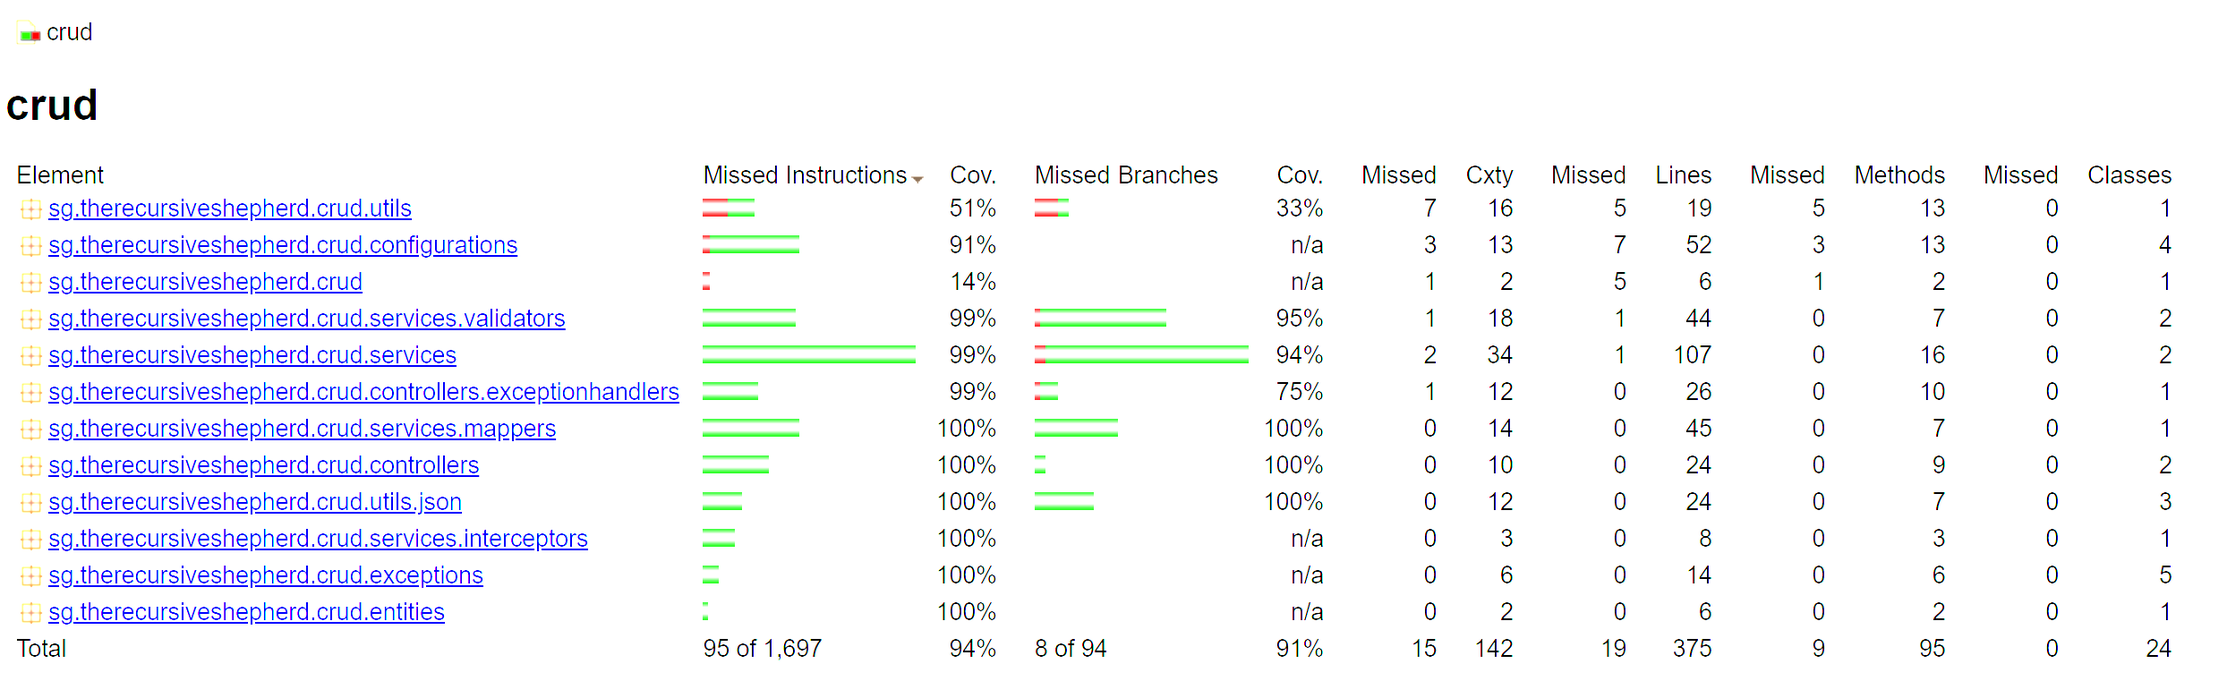
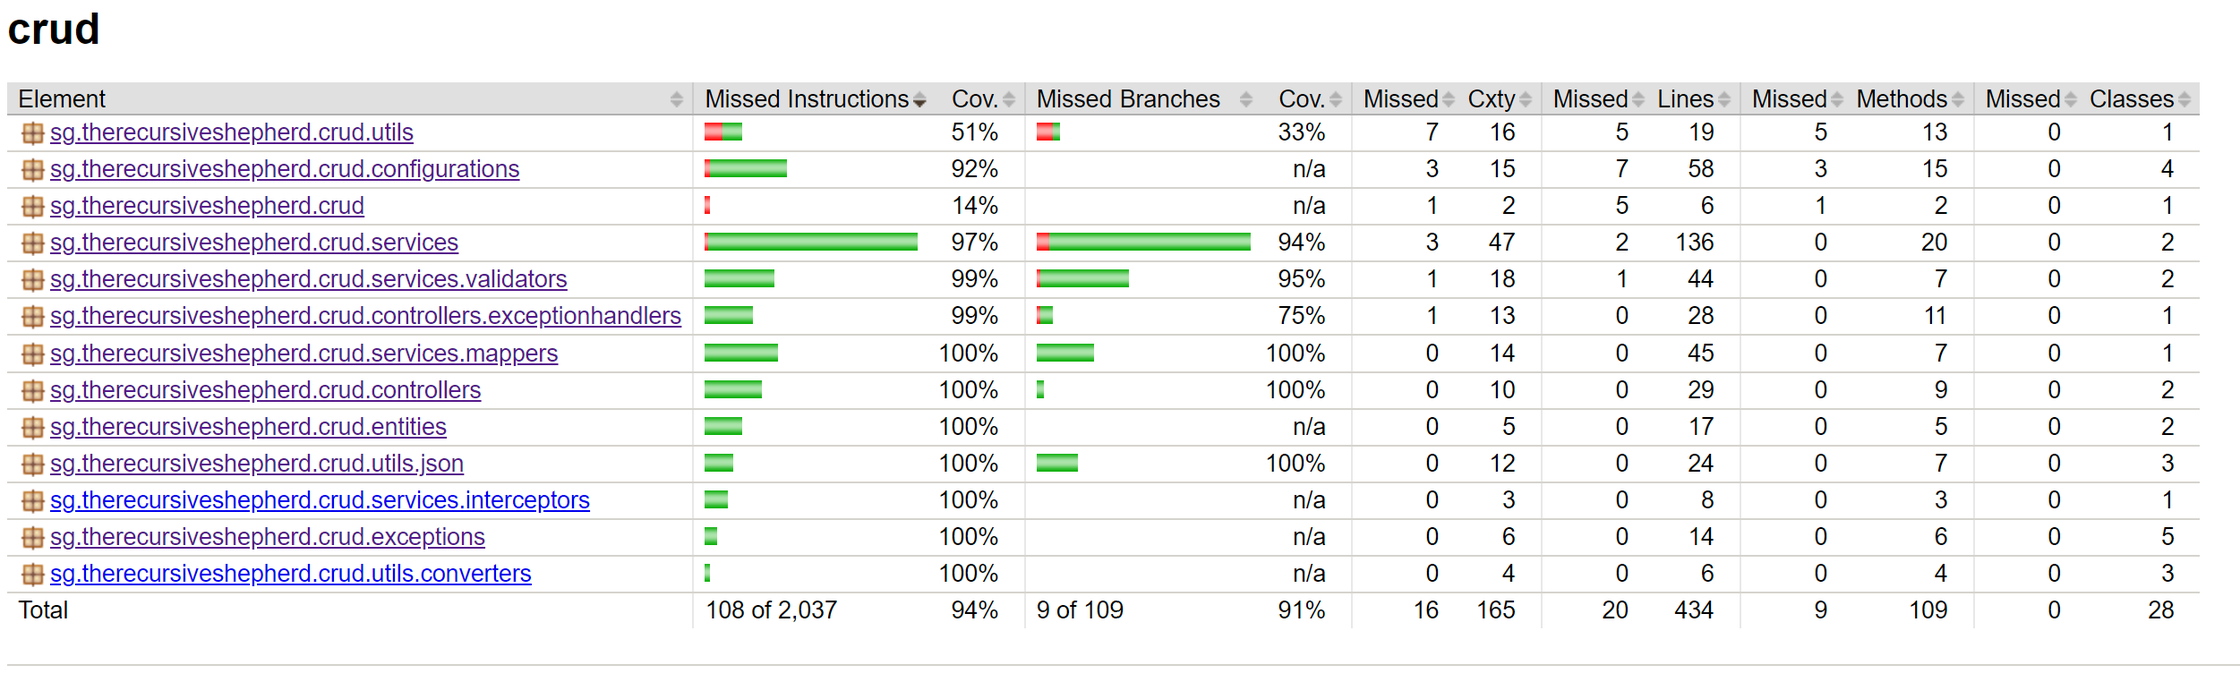
Remove id existence check from PUT request handler - Update documentation and code quality metrics - Remove local SonarQube token from sonarscan.bat - Enable trimming in CsvMapper - Add index on name column

diff --git a/src/test/java/sg/therecursiveshepherd/crud/it/EmployeeUpdateTest.java b/src/test/java/sg/therecursiveshepherd/crud/it/EmployeeUpdateTest.java
@@ -24,6 +24,7 @@ import java.time.LocalDate;
 import java.time.format.DateTimeFormatter;
 
 import static org.junit.jupiter.api.Assertions.assertEquals;
+import static org.junit.jupiter.api.Assertions.assertFalse;
 import static org.springframework.test.web.servlet.request.MockMvcRequestBuilders.patch;
 import static org.springframework.test.web.servlet.request.MockMvcRequestBuilders.put;
 import static org.springframework.test.web.servlet.result.MockMvcResultHandlers.print;
@@ -57,18 +58,21 @@ class EmployeeUpdateTest {
     employeeWriteRepository.deleteAll();
   }
 
-  @Test
-  @DisplayName("/users/{id}: Responds to PUT requests with status 200 given valid request body")
-  void updateUserReturnsStatus200OnSuccess() throws Exception {
+  @ParameterizedTest(name = "{index}: Id {0}")
+  @DisplayName("/users/{id}: Responds to PUT requests with status 200 given valid request body and id")
+  @CsvSource({
+    "e0001", "e0099"
+  })
+  void updateUserReturnsStatus200OnSuccess(String id) throws Exception {
     var json = "{\n" +
-      "  \"id\": \"e0001\",\n" +
+      "  \"id\": \"" + id + "\",\n" +
       "  \"login\": \"testuser\",\n" +
       "  \"name\": \"testname\",\n" +
       "  \"salary\": 100.00,\n" +
       "  \"startDate\": \"11-Nov-11\"\n" +
       "}";
     var response = mockMvc.perform(
-        put("/users/e0001")
+        put("/users/" + id)
           .contentType(MediaType.APPLICATION_JSON)
           .content(json))
       .andExpect(status().isOk())
@@ -76,8 +80,8 @@ class EmployeeUpdateTest {
       .getResponse();
     var responseDto = objectMapper.readValue(response.getContentAsString(), ApiResponseDto.class);
     assertEquals("Successfully updated", responseDto.getMessage());
-    var employee = employeeWriteRepository.findById("e0001").orElseThrow(NullPointerException::new);
-    assertEquals("e0001", employee.getId());
+    var employee = employeeWriteRepository.findById(id).orElseThrow(NullPointerException::new);
+    assertEquals(id, employee.getId());
     assertEquals("testuser", employee.getLogin());
     assertEquals("testname", employee.getName());
     assertEquals(0, BigDecimal.valueOf(100.00).compareTo(employee.getSalary()));
@@ -372,6 +376,26 @@ class EmployeeUpdateTest {
     assertEquals("Successfully updated", responseDto.getMessage());
     var employee = employeeWriteRepository.findById("e0001").get();
     assertEquals(0, employee.getSalary().compareTo(BigDecimal.valueOf(100.00)));
+  }
+
+  @Test
+  @DisplayName("/users/{id}: Responds to PATCH requests with status 400 given id not in database")
+  void updateUserReturnsStatus400ForPatchGivenIdNotInDatabase() throws Exception {
+    var json = "{\n" +
+      "  \"id\": \"e0091\",\n" +
+      "  \"salary\": 100.00" +
+      "}";
+    var response = mockMvc.perform(
+        patch("/users/e0091")
+          .contentType(MediaType.APPLICATION_JSON)
+          .content(json))
+      .andExpect(status().isBadRequest())
+      .andReturn()
+      .getResponse();
+    var responseDto = objectMapper.readValue(response.getContentAsString(), ApiResponseDto.class);
+    assertEquals("No such employee", responseDto.getMessage());
+    var employee = employeeWriteRepository.findById("e0091");
+    assertFalse(employee.isPresent());
   }
 
   @Test

diff --git a/src/main/java/sg/therecursiveshepherd/crud/services/EmployeeWriteService.java b/src/main/java/sg/therecursiveshepherd/crud/services/EmployeeWriteService.java
@@ -71,20 +71,22 @@ public class EmployeeWriteService {
   @Retryable(value = {TransientDataAccessException.class}, maxAttempts = 2, backoff = @Backoff(delay = 1000L, maxDelay = 3000L))
   public void createEmployee(EmployeeDto dto) {
     validateNoExistingIdOrLogin(dto);
-    var employeeEntity = employeeMapper.toEntity(dto);
-    employeeWriteRepository.save(employeeEntity);
+    saveEmployeeDto(dto, null);
   }
 
   @Transactional
   @Retryable(value = {TransientDataAccessException.class}, maxAttempts = 2, backoff = @Backoff(delay = 1000L, maxDelay = 3000L))
-  public void replaceEmployeeById(String id, EmployeeDto dto) {
+  public boolean replaceEmployeeById(String id, EmployeeDto dto) {
     if (!Objects.equals(id, dto.getId())) {
       throw new EmployeeIdMismatchException();
     }
-    var existingRecord = employeeWriteRepository.findById(id).orElseThrow(EmployeeNotFoundException::new);
-    var updatedRecord = employeeMapper.toEntity(dto, existingRecord);
-    employeeWriteRepository.save(updatedRecord);
+    var existingRecord = employeeWriteRepository.findById(id);
+    var isExistingRecord = existingRecord.isPresent();
+    saveEmployeeDto(dto, existingRecord.orElse(null));
+    return !isExistingRecord;
   }
+
+
 
   @Transactional
   @Retryable(value = {TransientDataAccessException.class}, maxAttempts = 2, backoff = @Backoff(delay = 1000L, maxDelay = 3000L))
@@ -181,4 +183,8 @@ public class EmployeeWriteService {
     }
   }
 
+  private void saveEmployeeDto(EmployeeDto dto, Employee existingEntity) {
+    var employeeEntity = employeeMapper.toEntity(dto, existingEntity);
+    employeeWriteRepository.save(employeeEntity);
+  }
 }

diff --git a/src/test/java/sg/therecursiveshepherd/crud/utils/CsvMapperTest.java b/src/test/java/sg/therecursiveshepherd/crud/utils/CsvMapperTest.java
@@ -1,0 +1,34 @@
+package sg.therecursiveshepherd.crud.utils;
+
+import com.fasterxml.jackson.databind.MappingIterator;
+import org.junit.jupiter.api.DisplayName;
+import org.junit.jupiter.api.Test;
+import org.springframework.util.StringUtils;
+import sg.therecursiveshepherd.crud.configurations.ApplicationConfiguration;
+import sg.therecursiveshepherd.crud.dtos.EmployeeDto;
+
+import java.io.ByteArrayInputStream;
+import java.io.IOException;
+import java.nio.charset.StandardCharsets;
+
+import static org.junit.jupiter.api.Assertions.*;
+
+class CsvMapperTest {
+
+  @Test
+  @DisplayName("CsvMapper trims leading and trailing spaces from columns")
+  void employeeCsvMapper() throws IOException {
+    var csvMapper = new ApplicationConfiguration().employeeCsvMapper();
+    var inputStream = new ByteArrayInputStream(getTestInput().getBytes(StandardCharsets.UTF_8));
+    MappingIterator<EmployeeDto> it = csvMapper.readValues(inputStream.readAllBytes());
+    var dtoList = it.readAll();
+    assertFalse(StringUtils.hasText(dtoList.get(0).getLogin()));
+    assertEquals("rwesley", dtoList.get(1).getLogin());
+  }
+
+  private String getTestInput() {
+    return "id,login,name,salary,startDate\n" +
+      "e0011, ,Harry Potter,1234.00,16-Nov-01\n" +
+      "e0012,rwesley ,Ron Weasley,19234.50,2001-11-16";
+  }
+}

diff --git a/src/main/java/sg/therecursiveshepherd/crud/entities/Employee.java b/src/main/java/sg/therecursiveshepherd/crud/entities/Employee.java
@@ -12,6 +12,9 @@ import java.util.Arrays;
 import java.util.Locale;
 import java.util.stream.Collectors;
 
+import static sg.therecursiveshepherd.crud.entities.Employee.COLUMN_NAME;
+import static sg.therecursiveshepherd.crud.entities.Employee.INDEX_NAME;
+
 @Entity
 @Getter
 @Setter
@@ -20,8 +23,8 @@ import java.util.stream.Collectors;
 @AllArgsConstructor
 @EqualsAndHashCode
 @ToString
-@Table(name = "employee", uniqueConstraints = {
-  @UniqueConstraint(name = Employee.CONSTRAINT_LOGIN, columnNames = {Employee.COLUMN_LOGIN})
+@Table(name = "employee", indexes = {@Index(columnList = COLUMN_NAME, name = INDEX_NAME)},
+  uniqueConstraints = {@UniqueConstraint(name = Employee.CONSTRAINT_LOGIN, columnNames = {Employee.COLUMN_LOGIN})
 })
 public class Employee {
 
@@ -32,6 +35,7 @@ public class Employee {
   public static final String FIELD_START_DATE = "startDate";
 
   public static final String CONSTRAINT_LOGIN = "uniquelogin";
+  public static final String INDEX_NAME = "idx_name";
 
   public static final String COLUMN_ID = "id";
   public static final String COLUMN_LOGIN = "login";

diff --git a/src/main/java/sg/therecursiveshepherd/crud/configurations/ApplicationConfiguration.java b/src/main/java/sg/therecursiveshepherd/crud/configurations/ApplicationConfiguration.java
@@ -2,6 +2,7 @@ package sg.therecursiveshepherd.crud.configurations;
 
 import com.fasterxml.jackson.databind.ObjectReader;
 import com.fasterxml.jackson.dataformat.csv.CsvMapper;
+import com.fasterxml.jackson.dataformat.csv.CsvParser;
 import com.fasterxml.jackson.dataformat.csv.CsvSchema;
 import com.fasterxml.jackson.datatype.jdk8.Jdk8Module;
 import com.fasterxml.jackson.datatype.jsr310.JavaTimeModule;
@@ -50,10 +51,11 @@ public class ApplicationConfiguration implements WebMvcConfigurer {
     var schema = CsvSchema.emptySchema()
       .withComments()
       .withHeader();
-    var csvMapper = new CsvMapper()
+    var csvMapper = (CsvMapper) new CsvMapper()
       .registerModule(new Jdk8Module())
       .registerModule(new ParameterNamesModule())
       .registerModule(new JavaTimeModule());
+    csvMapper.enable(CsvParser.Feature.TRIM_SPACES);
     return csvMapper.readerFor(EmployeeDto.class)
       .with(schema);
   }

diff --git a/src/test/java/sg/therecursiveshepherd/crud/services/EmployeeWriteServiceTest.java b/src/test/java/sg/therecursiveshepherd/crud/services/EmployeeWriteServiceTest.java
@@ -141,12 +141,12 @@ class EmployeeWriteServiceTest {
   }
 
   @Test
-  @DisplayName("Given path id that does not exist in database, replaceEmployeeById throws EmployeeNotFoundException")
-  void givenPathIdNotExistingInDatabaseReplaceEmployeeByIdThrowsEmployeeNotFoundException() {
+  @DisplayName("Given path id that does not exist in database, replaceEmployeeById returns true")
+  void givenPathIdNotExistingInDatabaseReplaceEmployeeByIdReturnsTrue() {
     var testId = "testId";
     var dto = getTestDto();
     when(employeeWriteRepository.findById(testId)).thenReturn(Optional.empty());
-    assertThrows(EmployeeNotFoundException.class, () -> employeeWriteService.replaceEmployeeById(testId, dto));
+    assertTrue(employeeWriteService.replaceEmployeeById(testId, dto));
   }
 
   @Test

diff --git a/src/test/java/sg/therecursiveshepherd/crud/it/EmployeeCsvFileUploadTest.java b/src/test/java/sg/therecursiveshepherd/crud/it/EmployeeCsvFileUploadTest.java
@@ -99,7 +99,8 @@ class EmployeeCsvFileUploadTest {
     "sample_data_duplicate_login_in_db.csv,Employee login not unique",
     "sample_data_invalid_date_format.csv,Row 1: Invalid date",
     "sample_data_missing_data_in_row.csv,Row 1: Invalid name",
-    "sample_data_negative_salary.csv,Row 1: Invalid salary"
+    "sample_data_negative_salary.csv,Row 1: Invalid salary",
+    "sample_data_with_spaces.csv,Row 1: Invalid login"
   })
   void uploadingCsvWithInvalidRowsReturnsStatus400(String fileName, String responseMessage) throws Exception {
     var employeesBefore = employeeWriteRepository.findAll();

diff --git a/README.md b/README.md
@@ -16,7 +16,7 @@ Should a SonarQube server be available, edit `sonarscan.bat` with the host url, 
 
 ## Preparing the Database
 
-As a database user with user and database creation privileges, the following should be done.
+As a database user with user and database creation privileges, do the following.
 
 - Create a user for the application, e.g. from the psql console, run `CREATE USER employeeapi WITH ENCRYPTED PASSWORD 'password123';`
 - Create a database for the application, e.g. from the psql console, run `CREATE DATABASE employeeapi;`
@@ -26,7 +26,7 @@ As a database user with user and database creation privileges, the following sho
 
 The application's settings can be overridden by environment variables. The following are some variables you may need to set.
 
-- `SPRING_SQL_INIT_MODE`: Set this to `always` to get the application to create the required table(s) on startup. This will fail if the table already exists. It will not drop the table, should there be data that is required to be preserved.
+- `SPRING_SQL_INIT_MODE`: Set this to `always` to get the application to create the required table(s) on startup. This will fail if the table already exists. It will not drop the table, should there be data that is required to be preserved. You may wish to set this to always on the first run, to create the necessary database table(s), then revert this to never.
 - `READ_DATASOURCE_JDBCURL`: Connection string for the read-only API, e.g. `jdbc:postgresql://localhost:5432/employeeapi`
 - `READ_DATASOURCE_USERNAME`: Username for the read-only API
 - `READ_DATASOURCE_PASSWORD`: Password for the read-only API
@@ -43,11 +43,13 @@ After building the application, run the following command from the project's roo
 
 The following profiles are available:
 
-- `dev`: Enables the logging of SQL statements and Swagger API documentation
+- `dev`: Enables the logging of SQL statements, metrics, and Swagger API documentation
 - `read`: Enables the read-only APIs of the application
 - `write`: Enables the write / update / delete APIs of the application
 
 For example, running `java -jar target\crud-1.0.0-SNAPSHOT.jar --spring.profiles.active=read,write` would enable all the APIs in the application, but no Swagger API documentation will be available.
+
+Alternatively, for development, one may instead run `mvn spring-boot:run -Dspring-boot.run.profiles=dev,read,write`. Note that this will drop and re-create the table(s) in the database
 
 ## Usage
 
@@ -60,6 +62,55 @@ Some notes on the API:
 - `POST /users/upload`: The field name for the file upload is `file`. If an employee's name includes a comma, the whole name should be quoted, e.g. `"Tan Ah Kow, Bob"` and not simply `Tan Ah Kow, Bob`. 
 - An employee's salary cannot be specified with greater than 20 digits, and no more than 4 decimal places, included within the 20 digit maximum.
 
+### Quick Documentation on Available Endpoints
+
+All endpoints here respond with a mimetype of application/json.
+
+- `GET /users`: Fetches all employee data, sorted by id ascending, with a minimum salary of 0 (inclusive) and 4000.00 (exclusive). One may issue the following query parameters to filter/sort results:
+  - `login`: searches for records with login matching exactly the supplied value. As login is unique, this can only return at most 1 record. 
+  - `name`: searches for records with names containing the supplied value. This search is case-sensitive.
+  - `minSalary` and/or `maxSalary`: Values supplied must be numeric. Searches for records greater than or equal to minSalary and less than maxSalary (exclusive). If either is not supplied, a default of 0 is used for minSalary or 4000.00 for maxSalary.
+  - `minStartDate` and/or `maxStartDate`: Values supplied must be of the format yyyy-MM-dd. Searches for records with startDate on or later than minStartDate and before maxStartDate (exclusive). If either is not supplied, a default of 1900-01-01 is used for minStartDate or 3000-12-31 for maxStartDate.
+  - `sortBy`: Valid values are id, login, name, salary, and startDate. Specifies the column to sort by. The default sort column is id.
+  - `sortDir`: Valid values are asc and desc, for ascending and descending respectively. The default sort order is ascending. *Note: if sortBy and sortDir are specified, the results will be sorted accordingly, then sorted by id ascending to ensure a stable sorting behaviour across paginated queries.*
+  - `offset`: Skips the first specified number of results
+  - `limit`: The maximum number of results to return
+- `GET /users/{id}`: Fetches data for a single employee
+- `POST /users`: Accepts a JSON request body containing valid data in full for an employee and creates it. This is not idempotent in the sense that sending another request to create an employee with the same id results in an error response. However, the data on the server remains unchanged on repeated submission. The request body must be valid according to the rules under the Employee Data Validation section.
+- `PUT /users/{id}`: Accepts a JSON request body containing valid data in full for an employee with the given id and replaces all its values, creating it if the employee did not previously exist. This is an idempotent operation. **Although RFC 7231 requires a successful resource creation to result in a http response status of 201, a status of 200 is returned here instead due to the exercise specifications.** The request body must be valid according to the rules under the Employee Data Validation section. Additionally, the id in the request body must match the id in the path.
+- `PATCH /users/{id}`: Accepts a partial JSON diff for an existing employee with the given id and applies changes only to the fields in the JSON. Due to the non-nullability of domain data, this operation happens to be idempotent. If supplied, the id in the JSON diff must be identical to the id in the path.
+- `DELETE /users/{id}`: Deletes the record of the employee with the id given in the path
+- `POST /users/upload`: Uploads a CSV file containing employee data. The file must meet the specifications in the following section, with the updating process subject to the attendant caveats.
+
+### CSV File Specifications
+
+The CSV file uploaded to `/users/upload` must meet the following requirements
+
+- The file size must be less than 60mb
+- A header row must be present and must be equal to "id,login,name,salary,startDate" in order for data mapping to succeed
+- Character encoding used in the file must be UTF-8
+- Lines starting with a `#` character will not be processed
+- All 5 columns must contain data
+- If any field contains a comma, the field must be quoted, i.e. `"Lim Kopi, Bryan"` and not `Lim Kopi, Bryan`
+- An employee's record is identified uniquely by its id column. No two rows shall have the same id
+- Employees' login data are unique. No two rows in the file shall have the same login, and each login must not currently belong to another record in the database.
+- The data in each row is validated according to the specifications in the next section, identical to validation steps used in the RESTful creation and updating of records.
+
+#### Notes ####
+1. If a row contains an id that is already present in the database, the corresponding database record will updated. If the id is not already present in the database, a new record is inserted.
+
+2. It is permissible to swap two users' logins in a single CSV file upload.
+
+3. It is not possible to change a user's id using the CSV file upload. Changing the id of a row results in a new record being created as per (1) above. 
+
+### Employee Data Validation
+
+- The id field must be a non-blank string
+- The login field must be a non-blank string
+- The name field must be a non-blank string
+- The salary field must be a non-negative decimal
+- The startDate field must be a date in either yyyy-MM-dd or dd-MMM-yy format
+
 ## Architecture Design Record
 
 | Issue | Decision |
@@ -70,23 +121,26 @@ Some notes on the API:
 | **PATCH request support.** RFC 5789 specifies that PATCH requests accept a request describing a set of changes and applies a partial modification to the resource. When using normal DTOs in Java, there is no way to distinguish between null and undefined values in JSON as RFC 7386 requires in such patch documents. Using a hashmap as a DTO may address this, at the cost of data mapping and validation complexity. Another solution is to wrap each field in an Optional as Jackson handles it properly, but Optionals are not designated as serializable and may thus cause future maintenance issues. | To deserialize patch documents as DTOs and take no action given null fields. While this deviates from RFC 7386 which would require the corresponding field in the employee's record to be set to null, all fields in an employee's record are required, so the alternative would have been to throw an exception due to the inability to easily discern the user's intent. |
 | **Conflicts between CSV data and database.** A CSV file contains updates for multiple records at once. Taken as single transaction, the possibility exists to swap two employees' login fields, something not possible if each row is taken as a separate transaction to be committed. However, this defers the unique constraint check to the database update step. A conflicting login value next results in a SQL exception, and pinpointing the exact record with the conflict at this step requires interpreting the SQL error message, possibly via regex. Attempting to pinpoint the conflicting row before this would require a database query per row using id/login tuples, resulting in a significant performance hit from the n+1 queries with large CSV files. | To "ask for forgiveness rather than check", and return an error message indicating a conflict in the login field in the CSV file if a non-transient data access error is encountered on upsert. |
 | **Service resiliency**. A production-ready database likely resides over the network, and network connections are not reliable. However, a naive retry policy is dangerous without a circuit breaker and could lead to inadvertent self-DDOS. Circuit breakers are necessarily stateful and do not scale in a straightforward manner. | To retry at most once per database operation, with random backoff jitter to mitigate systemic traffic spikes |
+| **Validation at controller vs service**. Data validation here is part of the business logic and should rightfully reside in the service classes. Service classes could be more easily re-used elsewhere if so. However, the single data ingestion point is from the controller, and arguably the unit of reusability is the entire application itself. Using JSR303 annotations and validators makes the validation logic portable, and having validation done by Spring prior to data coming into the controller ensures data validity within the boundary of the application and makes for more effective defensive programming. | To enforce data validation using only JSR303-compliant annotations and validators. Conversion of request parameters to Java types is to be done via Spring Converters pre-controller input to ensure correctness of data within the application.|
+| **Database optimization strategies** Filtering by name here requires a full-text search in the name column. This is an expensive operation, especially for larger datasets. | A btree index is to be created on the name column. Should the dataset grow sufficiently large, e.g. on the order of a million entries, this may require a redesign to use the more complicated trigram index instead.|
 
 ## Last Code Quality Scan Results
 
 ### Jacoco Test Coverage Report
 
-![Jacoco Report](images\jacoco.png)
+![Jacoco Report](images/jacoco.png)
 
 ### SonarQube Code Analysis Report
 
-![SonarQube Report](images\sonarqube.png)
+![SonarQube Report](images/sonarqube.png)
 
 ### OWASP Dependency Check Report
 
-![ODC Report](images\odc.png)
+![ODC Report](images/odc.png)
 
 ## Suggested Improvements
 
 - For better reproducible builds and smaller deployment footprint, use a multi-stage Docker build. From the first container, install JDK 11.0.13 and use jlink to create a minimal JRE consisting only of classes required to run the application, stripping off problematic classes (e.g. SecurityManager). Use the JDK within the container to build the jar file, then copy the JRE and the jar file to a target deployment image based on Google's Distroless image to reduce the threat surface by keeping only essential libraries for the application's process.
 - Distributed cache for Hibernate's L2 to facilitate scaling.
 - Implement a query id column for employee data so that the /users/{id} endpoint does not use the database id. The id currently follows a predictable pattern and could lead to IDOR vulnerabilities. However, this would require more context beyond the scope of this exercise, e.g. how the frontend wishes to query for records.
+- The use of Spring Data Jpa and its query autogeneration is acceptable for small domain boundaries, but is not easily scalable. Some workarounds have been implemented to confine the number of query methods required, but these have some small impact on query performance. For example, the lower and upper limits of salaries and start dates are always specified in queries, which causes additional checks by the database. Should more fields be required in each row or normalization of tables be consequently required, it may be prudent to use Specification builders, or alternatively, Jooq to generate dynamic queries without string concatenation which could expose the application to SQL injection attacks. 
